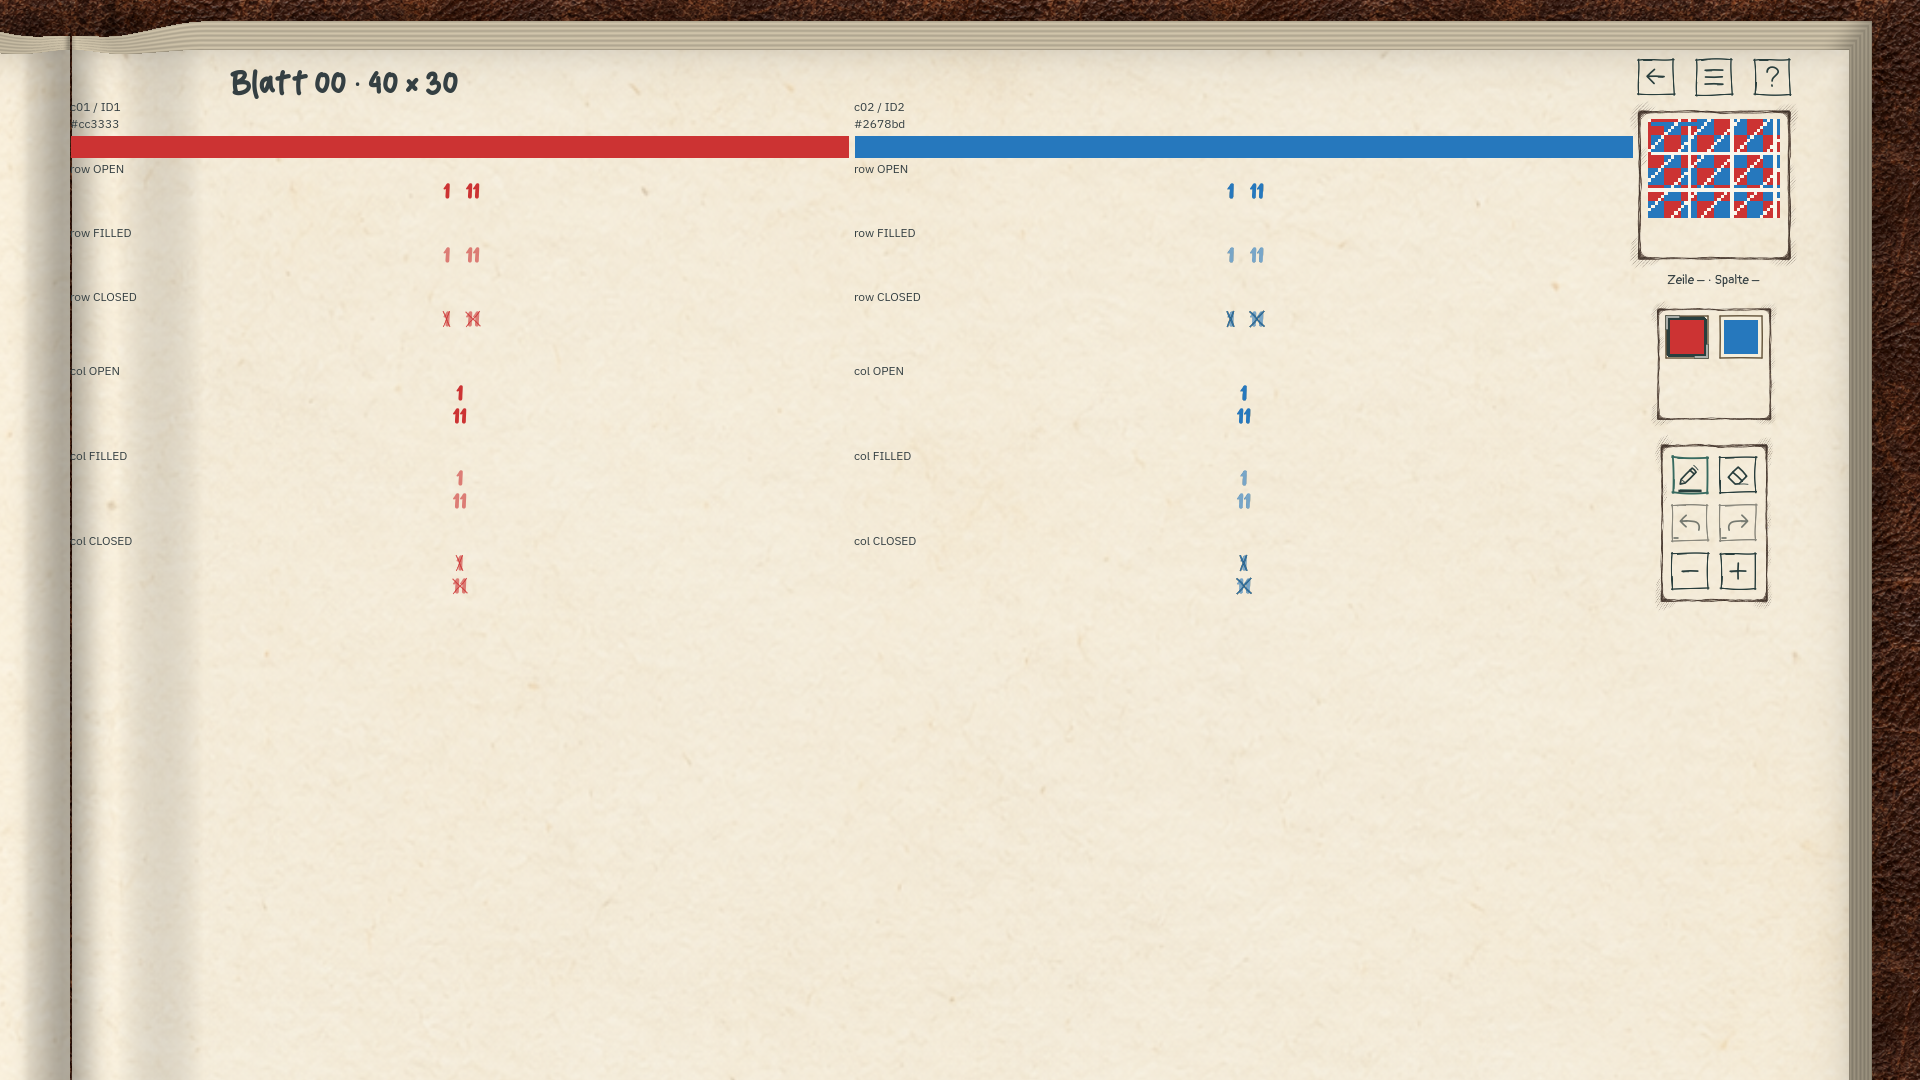
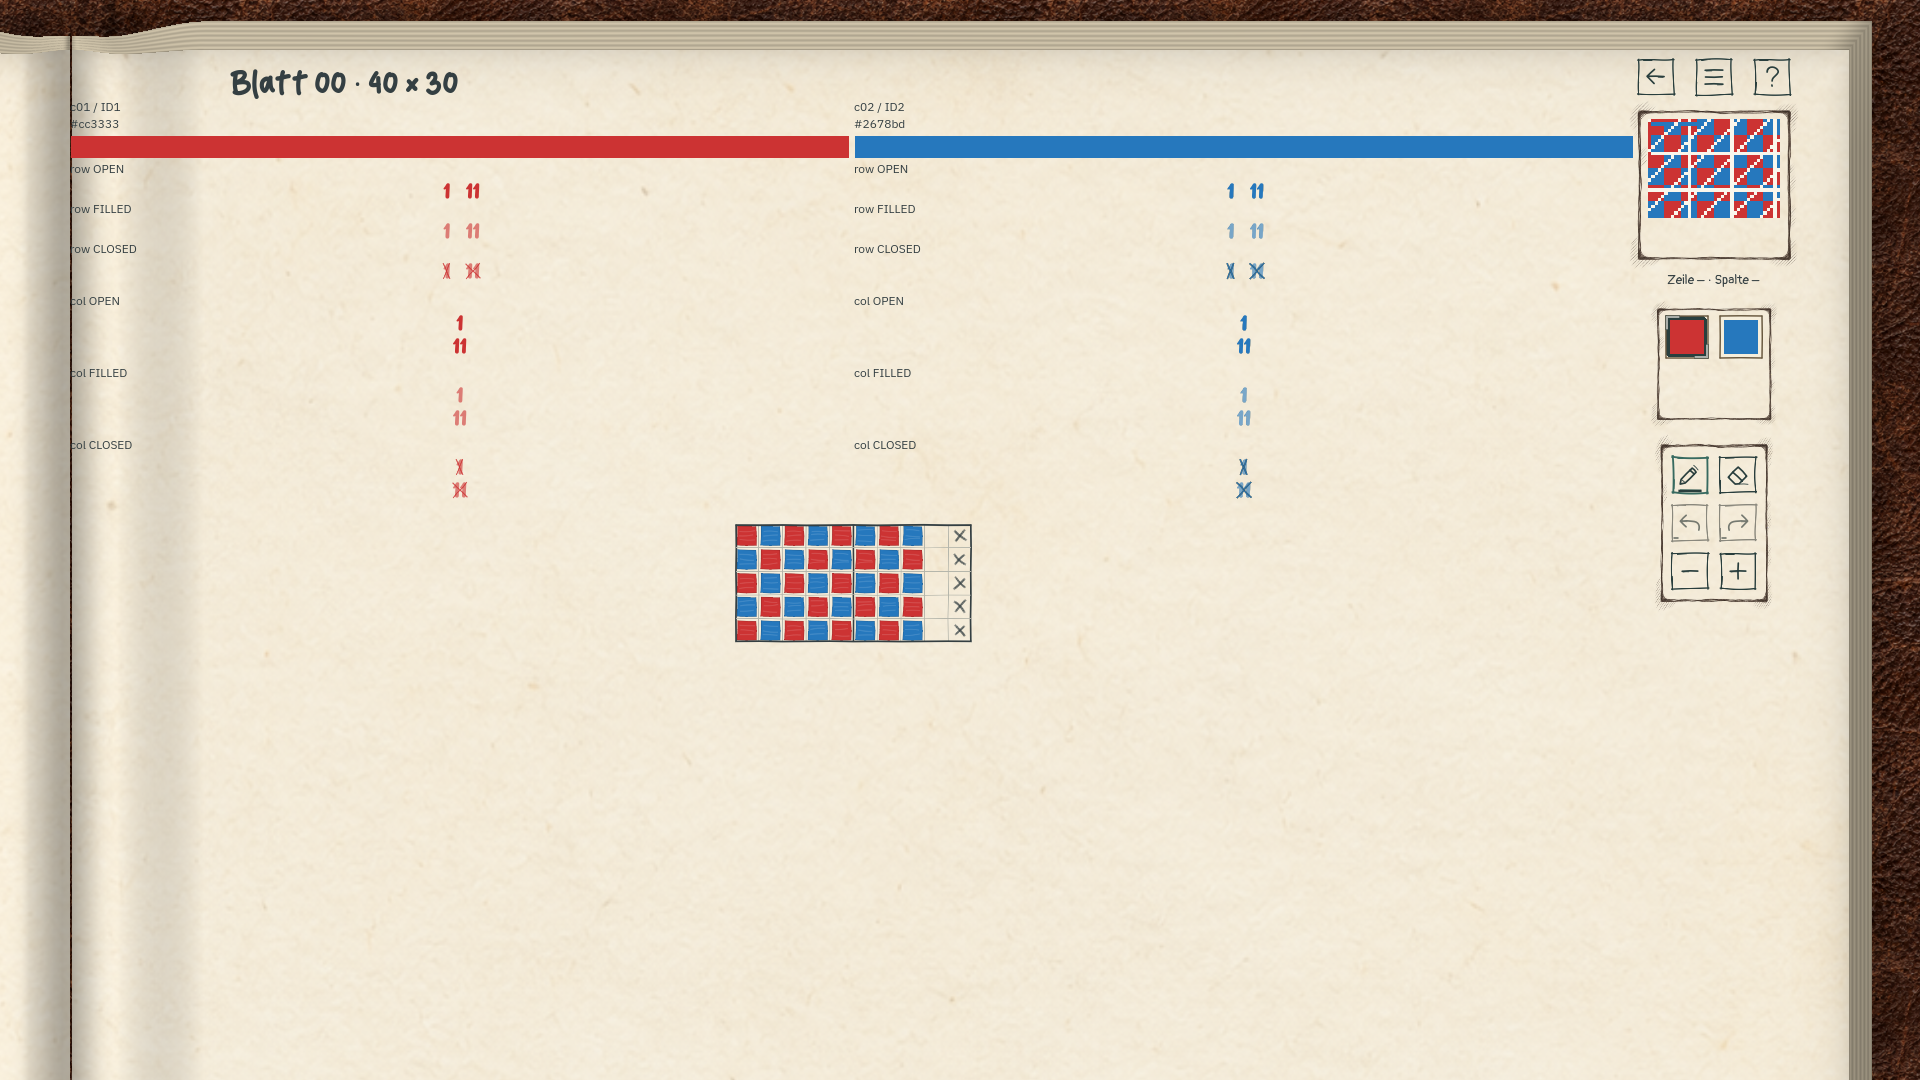
P-A-V01: include native cell context beside every explicit hint-state panel

diff --git a/review-evidence/pa-v01/README.md b/review-evidence/pa-v01/README.md
@@ -6,12 +6,17 @@ als Elternstand, erhält **keinen Merge-PR** und wird nicht in den Produktbranch
 übernommen. Empfänger: Eigentümerperson für P-A-M01 und unabhängiger Reviewer
 für P-A-R01. Die Sichtung und endgültige Normfreigabe sind offen.
 
-`manifest.json` bindet alle 32 Original-PNGs (47.743.541 Bytes), Bildgrößen,
+`manifest.json` bindet alle 32 Original-PNGs samt vollständiger Bytezahl, Bildgrößen,
 SHA-256, native Messdaten, Normdateien, Rendererquellen und Enginebytes.
 `native.json` enthält Geometrie und Displaykontext pro Bild. Die PNGs sind
 unveränderte Godot-Viewportausgaben, keine Vorschaukopien oder Neukodierung.
 `Fxx-small-board.png` / `-tokens.png`: 1280×720/UI125;
 `Fxx-normal-board.png` / `-tokens.png`: 1920×1080/UI100.
+Jedes Panel enthält zusätzlich einen nativen 10×5-Zellausschnitt mit denselben
+Farb-IDs/RGB und exakt dem gemessenen Zellmaß: Leer/Papier, X, Nachbarfüllungen,
+normale und Fünferlinien samt tatsächlicher kleiner/großer Detailstufe.
+Er verwendet unverändert die geerbten Grid-/Atlas-Zeichenwege. Seine zusätzlichen
+Anzeigezellen verändern keine Nutzungszahl der fixierten Referenzmatrix.
 Board und Panel sind je Familie zusammen zu lesen; die Panel-Farbfelder allein
 genügen nicht. Native Schriftgrade 6 und 17/18 sind **tatsächlich gemessen**.
 Das 720p-Ziffernmaß ist eine offengelegte Einschränkung, kein bestandener
